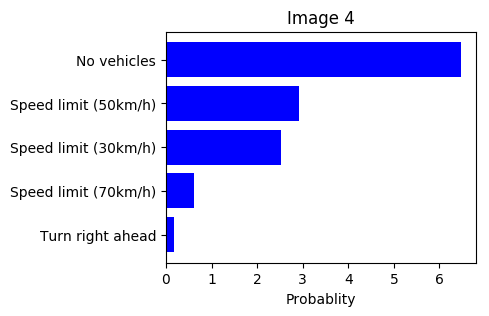
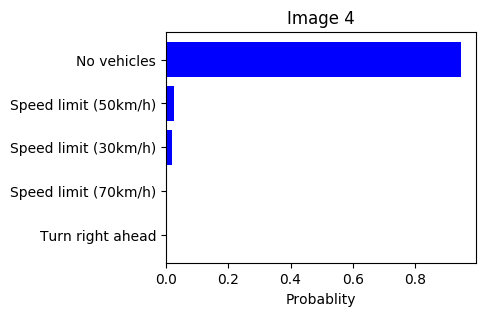
bug fix 2

diff --git a/writeup.md b/writeup.md
@@ -157,48 +157,79 @@ The model was able to correctly guess 4 of the 5 traffic signs, which gives an a
 
 ####3. Describe how certain the model is when predicting on each of the five new images by looking at the softmax probabilities for each prediction. Provide the top 5 softmax probabilities for each image along with the sign type of each probability. (OPTIONAL: as described in the "Stand Out Suggestions" part of the rubric, visualizations can also be provided such as bar charts)
 
-The certainty can be seen from the chart.
+The code for making predictions on my final model is located in the 52nd cell of the Ipython notebook, and the chart is in the 53th cell.
+
+The certainty can be seen from the chart below.
 
 (1). Image 1 - 70km/h
 
 ![Test Probability 1][image9]
 
+For the Image 1, the model is has a wrong prediction of 60km/h (probability of 0.806), but the image does contain a 70km/h sign. The top five soft max probabilities were
+
+| Probability         	|     Prediction	        					| 
+|:---------------------:|:---------------------------------------------:| 
+| .806         			| 60km/h 	  									| 
+| .178     				| Bicycles crossing 							|
+| .005					| Wild animal crossing							|
+| .004	      			| Road working					 				|
+| .003				    | No Vehicles 	     							|
+
 (2). Image 2 - Right-of-way
 
 ![Test Probability 2][image10]
+
+For the Image 2, the model is pretty sure that this is a Right-of-way sign (probability of 0.999), and the image does contain a Right-of-way sign. The top five soft max probabilities were
+
+| Probability         	|     Prediction	        					| 
+|:---------------------:|:---------------------------------------------:| 
+| .999         			| Right of way   								| 
+| .000     				| Pedestrians 									|
+| .000					| Double Curve									|
+| .000	      			| Beware of ice/snow			 				|
+| .000				    | Slippery Road      							|
 
 (3). Image 3 - Priority road
 
 ![Test Probability 3][image11]
 
+For the Image 3, the model is relatively sure that this is a Priority road sign (probability of 1), and the image does contain a Priority road sign. The top five soft max probabilities were
+
+| Probability         	|     Prediction	        					| 
+|:---------------------:|:---------------------------------------------:| 
+| 1         			| Priority road   								| 
+| .00     				| End of no passing 							|
+| .00					| No entry										|
+| .00	      			| Roundabout mandatory							|
+| .00				    | End of all speed and passing limits      		|
+
 (4). Image 4 - No vehicles
 
 ![Test Probability 4][image12]
+
+For the Image 4, the model is pretty sure that this is a No vehicles (probability of 0.948), and the image does contain a No vehicles sign. The top five soft max probabilities were
+
+| Probability         	|     Prediction	        					| 
+|:---------------------:|:---------------------------------------------:| 
+| .948         			| No vehicles   								| 
+| .027     				| 50km/h 										|
+| .018					| 30km/h										|
+| .002	      			| 70km/h						 				|
+| .001				    | Turn right ahead     							|
 
 (5). Image 5 - Stop
 
 ![Test Probability 5][image13]
 
-
-
-
-
-
-
-The code for making predictions on my final model is located in the 11th cell of the Ipython notebook.
-
-For the first image, the model is relatively sure that this is a stop sign (probability of 0.6), and the image does contain a stop sign. The top five soft max probabilities were
+For the Image 5, the model is relatively sure that this is a stop sign (probability of 0.999), and the image does contain a stop sign. The top five soft max probabilities were
 
 | Probability         	|     Prediction	        					| 
 |:---------------------:|:---------------------------------------------:| 
-| .60         			| Stop sign   									| 
-| .20     				| U-turn 										|
-| .05					| Yield											|
-| .04	      			| Bumpy Road					 				|
-| .01				    | Slippery Road      							|
-
-
-For the second image ... 
+| .999         			| Stop sign   									| 
+| .000     				| No entry 										|
+| .000					| Road work										|
+| .000	      			| End of all speeds and passing limits			|
+| .000				    | Go straight of right      					|
 
 ### (Optional) Visualizing the Neural Network (See Step 4 of the Ipython notebook for more details)
 ####1. Discuss the visual output of your trained network's feature maps. What characteristics did the neural network use to make classifications?
